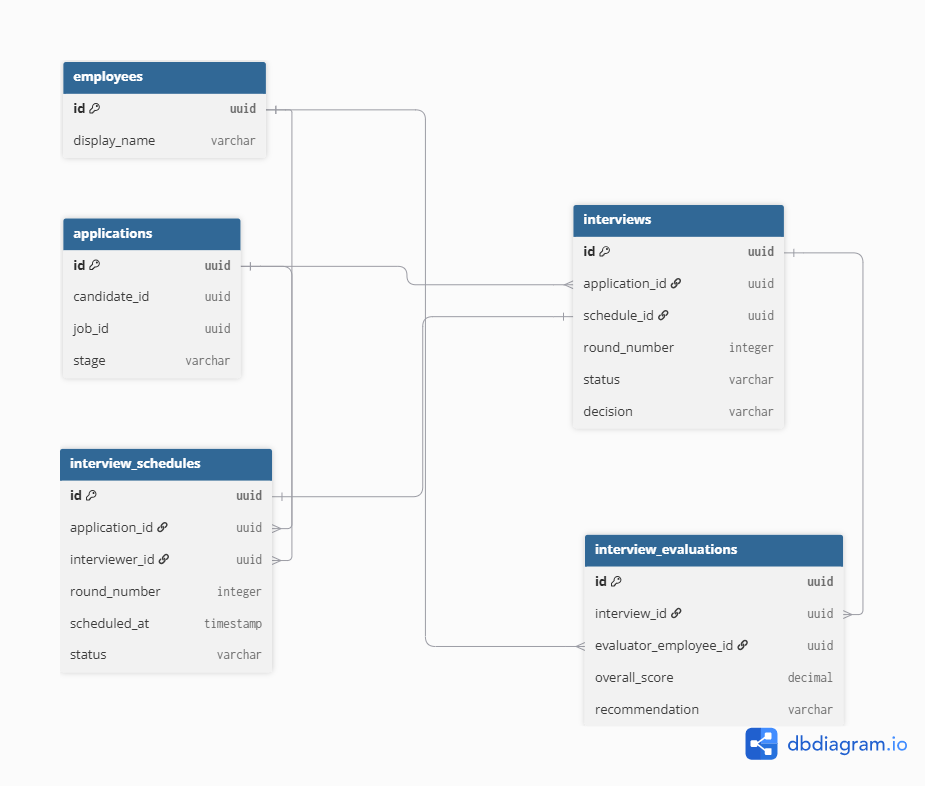
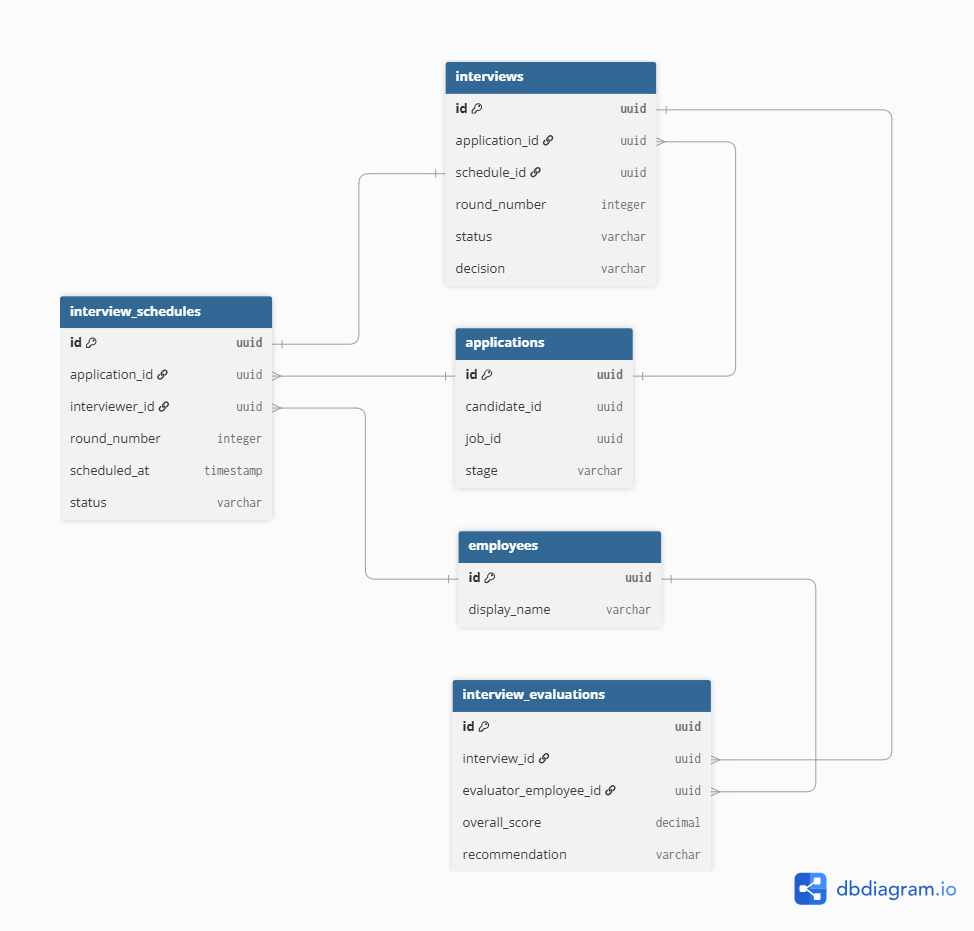
docs: update and arrange recruitment documentation

diff --git a/docs/recruitment/README.md b/docs/recruitment/README.md
@@ -1,8 +1,38 @@
 # Recruitment Documentation
 
+## Usecase
+
+![Recruitment Usecase](../../images/usecase/recruitment.png)
+
 ## Recruitment Sitemap
 
 ![alt text](../../images/sitemap/recruitment_sitemap.png)
+
+## UI/UX
+
+### Recruitment Management
+![Recruitment Management](../../images/uiux/recruitment/Recruitment%20Management.png)
+
+### Requirement Management
+![Requirement Management](../../images/uiux/recruitment/Requirement%20Management.png)
+
+### Job Management
+![Job Management](../../images/uiux/recruitment/Job%20Management.png)
+
+### Application Management
+![Application Management](../../images/uiux/recruitment/Application%20Management.png)
+
+### Interview Management
+![Interview Management](../../images/uiux/recruitment/Interview%20Management.png)
+
+### Schedule Management
+![Schedule Management](../../images/uiux/recruitment/Schedule%20Management.png)
+
+### Offer Management
+![Offer Management](../../images/uiux/recruitment/Offer%20Management.png)
+
+### Template Management
+![Template Management](../../images/uiux/recruitment/Template%20Management.png)
 
 ## Database Schema (Recruitment)
 
@@ -10,7 +40,7 @@
 ![alt text](<../../images/erd/recruitment/Recruitment db.png>)
 
 ### Organization & Recruitment Requirement
-![images/erd/recruitment/Organization & Recruitment Requirement.png](<../../images/erd/recruitment/Organization & Recruitment Requirement.png>)
+![Organization & Recruitment Requirement](<../../images/erd/recruitment/Organization & Recruitment Requirement.png>)
 
 ### Job & Application
 ![alt text](<../../images/erd/recruitment/Job & Application.png>)
@@ -20,3 +50,17 @@
 
 ### Offer & Recruitment Template
 ![alt text](<../../images/erd/recruitment/Offer & Recruitment Template.png>)
+
+## API Swagger
+
+### Requirement & Job
+![Requirement & job](../../images/api-swagger/recruitment/Requirement%20%26%20job.jpg)
+
+### Application & Schedule
+![Application & Schedule](../../images/api-swagger/recruitment/Application%20%26%20Schedule.jpg)
+
+### Interview & Offer
+![Interview & offer](../../images/api-swagger/recruitment/Interview%20%26%20offer.jpg)
+
+### Templates
+![Templates](../../images/api-swagger/recruitment/Templates.jpg)
